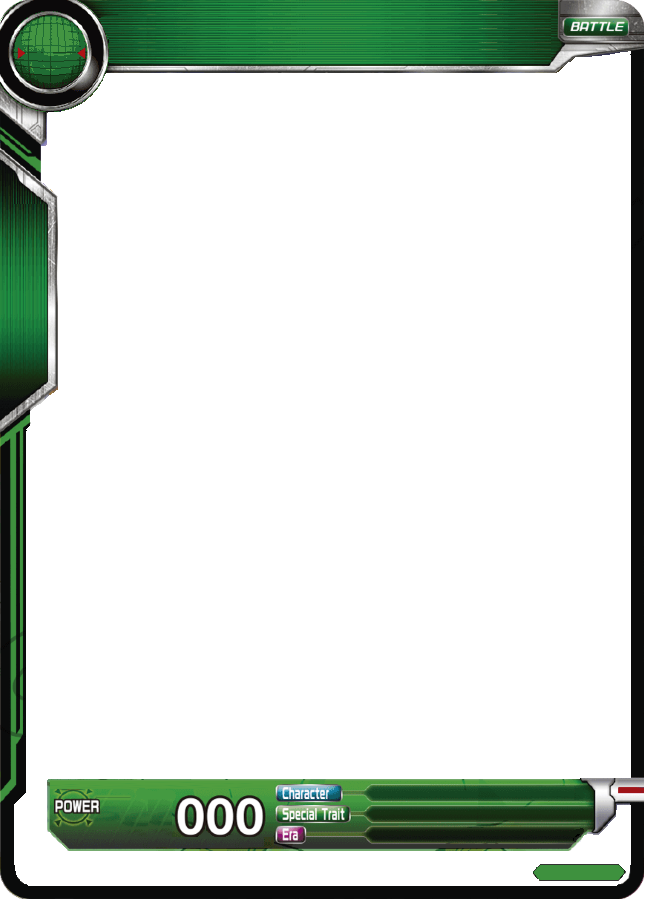
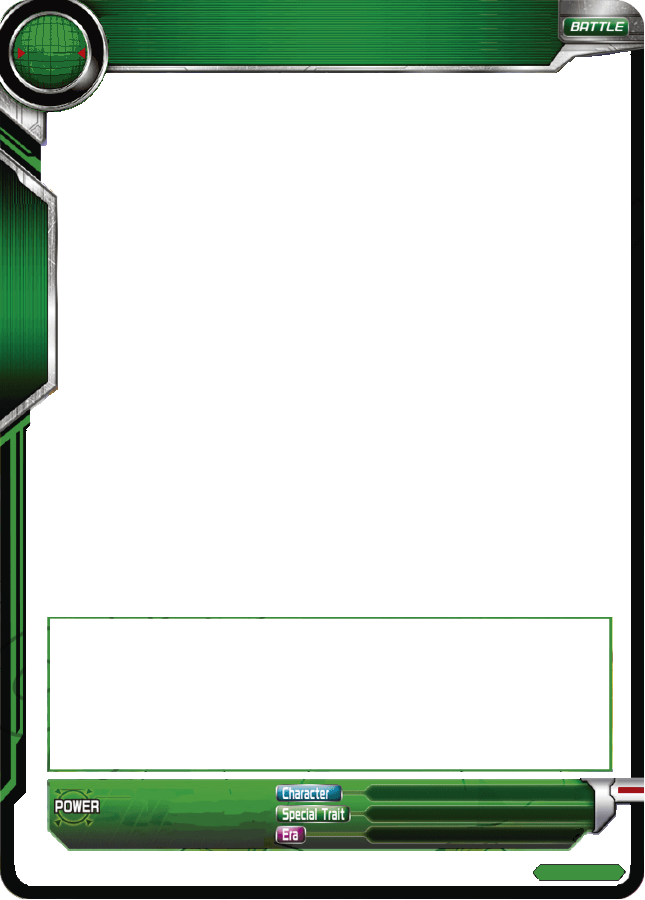
swap assets & add power input

Changed region(s): [[0.062, 0.6844, 0.9612, 0.9333]]

diff --git a/src/app/app.component.html b/src/app/app.component.html
@@ -35,9 +35,20 @@
   </div>
 
   <div>
-    <h4>Show Card Text Box:</h4>
-    <p-inputSwitch id="show-card-box-switch" [(ngModel)]="showCardTextBox"></p-inputSwitch>
+    <span class="ui-float-label">
+      <input
+        [(ngModel)]="power"
+        id="power-input"
+        type="number"
+        size="30"
+        pInputText
+      >
+      <label for="power-input">Power</label>
+    </span>
   </div>
+
+  <h4>Show Card Text Box:</h4>
+  <p-inputSwitch id="show-card-box-switch" [(ngModel)]="showCardTextBox"></p-inputSwitch>
 
   <div>
     <input id="art-input" type="file" name="myFile" (change)="setCardArt($event)">
@@ -82,10 +93,8 @@
     </span>
   </div>
 
-  <div>
-    <h4>Select Combo Power:</h4>
-    <p-dropdown [options]="combos" [(ngModel)]="selectedCombo" optionLabel="name"></p-dropdown>
-  </div>
+  <h4>Select Combo Power:</h4>
+  <p-dropdown [options]="combos" [(ngModel)]="selectedCombo" optionLabel="name"></p-dropdown>
 
   <div>
     <span class="ui-float-label">
@@ -101,15 +110,14 @@
     </span>
   </div>
 
-  <div>
-    <button pButton type="button" label="Highlight Keywords" class="ui-button-rounded" (click)="parseForKeywords()"></button>
-  </div>
+  <button pButton type="button" label="Highlight Keywords" class="ui-button-rounded" (click)="parseForKeywords()"></button>
 
 </div>
 
 <div id="card-display-holder">
   <div id="card" class="card-size">
     <div id="cardName">{{this.cardName}}</div>
+    <div id="power">{{this.power}}</div>
     <div id="character">{{this.character}}</div>
     <div id="special-trait">{{this.specialTrait}}</div>
     <div id="era">{{this.era}}</div>

diff --git a/src/app/app.component.css b/src/app/app.component.css
@@ -26,6 +26,10 @@
   margin-left: 10px;
 }
 
+h4 {
+  margin-left: 10px;
+}
+
 #card-display-holder {
   float: left;
   display: inline-block;
@@ -60,17 +64,26 @@
   position: relative;
 }
 
-#cardName {
+#cardName, #power {
   position: absolute;
-  left: 90px;
-  top: 4px;
   z-index: 1000;
   color: white;
   font-family: Verdana, serif;
-  font-size: 35px;
   font-style: italic;
   font-weight: bold;
   text-shadow: -2px -2px 0 #000, 2px -2px 0 #000, -2px 2px 0 #000, 2px 2px 0 #000;
+}
+
+#cardName {
+  left: 90px;
+  top: 4px;
+  font-size: 35px;
+}
+
+#power {
+  right: 278px;
+  top: 575px;
+  font-size: 30px;
 }
 
 #character, #special-trait, #era {

diff --git a/src/app/app.component.ts b/src/app/app.component.ts
@@ -39,6 +39,7 @@ export class AppComponent {
     }
   };
   cardName: string;
+  power: number;
   showCardTextBox: boolean = true;
   cardArt: any;
   character: string;
